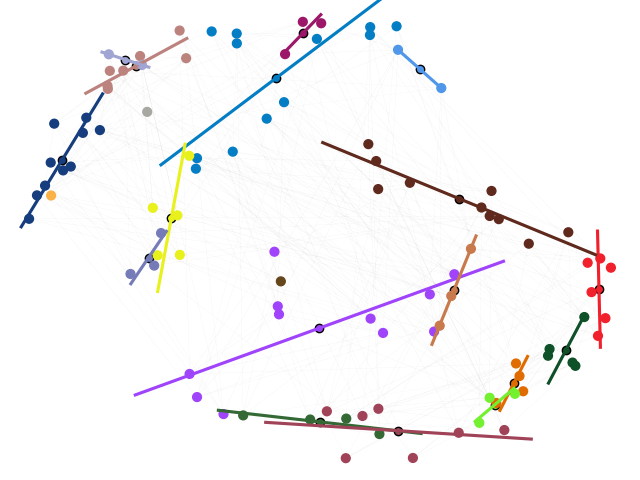
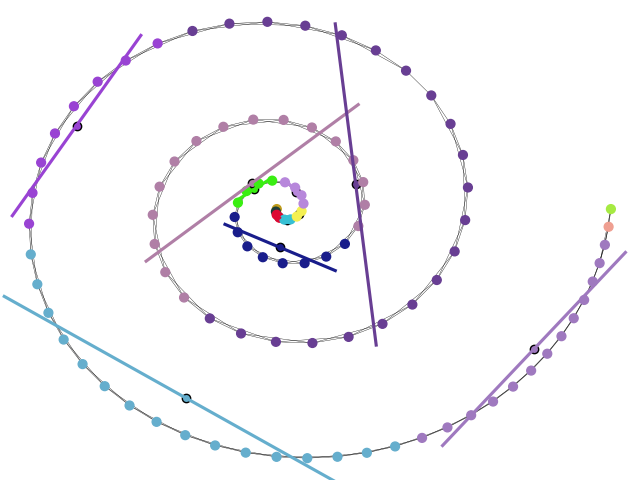
up

diff --git a/demo/draw_utils.py b/demo/draw_utils.py
@@ -1,15 +1,21 @@
 import networkx as nx
 import numpy as np
+import random
 import matplotlib.cm
 import matplotlib.pyplot as plt
+from sklearn.neighbors import NearestNeighbors
 cmap = matplotlib.cm.get_cmap('rainbow')
 
 
-def draw_spiral_clusters(C, G):
+def draw_spiral_clusters(C, k):
     X = sum([Ci.X for Ci in C], [])
-    colors = [np.random.rand(3, ) for i in range(len(C))]
+    colors = [np.array(random.sample(range(0, 256), 3)) / 256 for i in range(len(C))]
     colors_list = sum([[colors[i]] * len(C[i]) for i in range(len(C))], [])
-    nx.draw(G, pos=X, node_size=40, node_color=colors_list, width=0.01)
+    width = 0.01 if len(X) > 200 else 0.25
+    knn = NearestNeighbors(n_neighbors=k + 1, metric='euclidean').fit(X)
+    E = knn.kneighbors_graph(X).astype(np.int)
+    G = nx.from_scipy_sparse_matrix(E, create_using=nx.MultiGraph)
+    nx.draw(G, pos=X, node_size=40, node_color=colors_list, width=width)
 
     for i, Ci in enumerate(C):
         if len(Ci) == 1:  # Skip singleton clusters
@@ -19,18 +25,15 @@ def draw_spiral_clusters(C, G):
         samples = np.array(Ci.X).T
         p = np.mean(samples, axis=1, keepdims=True)
 
-        length_x = max(np.abs(np.max(samples[0, :]) - np.min(samples[0, :])), 0.1)
-        length_y = max(np.abs(np.max(samples[1, :]) - np.min(samples[1, :])), 0.1)
-        length = max(length_x, length_y)
-        pts = np.linspace(-length * 3 / 4, length * 3 / 4, num=2)
-        xs = pts * flat[0]
-        ys = pts * flat[1]
-
+        length_x = max(np.abs(np.max(Ci.X, axis=0)[0] - np.min(Ci.X, axis=0)[0]), 0.1)
+        length_y = max(np.abs(np.max(Ci.X, axis=0)[1] - np.min(Ci.X, axis=0)[1]), 0.1)
+        pts = [-100000, 100000]
+        xs = np.clip(pts * flat[0], -length_x / 2, length_x / 2)
+        ys = np.clip(pts * flat[1], -length_y / 2, length_y / 2)
         plt.autoscale(False)
 
         plt.plot(xs + p[0], ys + p[1], 'k-', lw=2.25, color=colors[i])
         plt.scatter(p[0], p[1], color=colors[i], edgecolors='black')
-    plt.savefig('./outfig.png')
     plt.show()
 
 
@@ -41,5 +44,4 @@ def draw_3d_clusters(C):
     colors = [np.random.rand(3, ) for i in range(len(C))]
     colors_list = sum([[c] * len(C[i]) for i, c in enumerate(colors)], [])
     ax.scatter(X[:, 0], X[:, 1], X[:, 2], c=colors_list)
-    plt.savefig('./outfig.png')
     plt.show()

diff --git a/demo/spiral_acdt.py b/demo/spiral_acdt.py
@@ -5,8 +5,9 @@ import networkx as nx
 import sklearn.datasets as datasets
 import karcher_mean
 import scipy.linalg
+import pickle
 import os
-from datasets_util import make_spiral, make_spiral2, make_spiral3
+from datasets_util import make_spiral, make_2_spiral
 from draw_utils import draw_spiral_clusters, draw_3d_clusters
 from multiprocessing import Pool
 from karcher_mean import karcher_mean as km
@@ -56,9 +57,8 @@ def argmin_dissimilarity(C, knn):
 
     min_idx = np.argmin(pool.starmap(d_hat, pairs))  # TODO
     # min_idx = np.argmin([d_hat(Ci, Cj) for Ci, Cj in pairs])
-    Ci_min = pairs[min_idx][0]
-    Cj_min = pairs[min_idx][1]
-    return Ci_min, Cj_min
+
+    return pairs[min_idx]
 
 
 def d_hat(Ci, Cj):
@@ -98,20 +98,20 @@ def d_geodesic(x, y):
 pool = Pool(processes=PROCESS)
 
 # Params
-k = 5
-l = 20
-d = 2
+k = 15
+l = 60
+d = 1
 
 # dataset points
-n = 500
-# X = make_spiral2(n=n, normalize=True)
-# X = make_spiral3(n=n, normalize=True)
+n = 5000
+# X = make_spiral(n=n, normalize=True)
+# X = make_2_spiral(n=n, normalize=True)
 X, _ = datasets.make_swiss_roll(n)
 
 knn = NearestNeighbors(n_neighbors=k + 1, metric='euclidean').fit(X)
 k_indices = knn.kneighbors(X, return_distance=False)[:, 1:]  # Compute k-nearest neighbors indices
-E = knn.kneighbors_graph(X).astype(np.int)
-G = nx.from_scipy_sparse_matrix(E)
+E = knn.kneighbors_graph(X).astype(np.int) # These are not used
+G = nx.from_scipy_sparse_matrix(E.copy(), create_using=nx.MultiGraph)
 
 C = []
 map_cluster = []  # Maps sample idx to cluster containing it
@@ -157,7 +157,18 @@ for Ci in C:
 
 print(time.time() - total)
 
+# Save the data for further visualization
+data = {
+    'C': C,
+    'knn': knn
+}
+
+PATH = './saved/'
+os.makedirs(PATH, exist_ok=True)
+with open(os.path.join(PATH, 'ckpt.pickle'), 'wb') as f:
+    pickle.dump(data, f, protocol=pickle.HIGHEST_PROTOCOL)
+
 if X.shape[1] == 2:
-    draw_spiral_clusters(C, G)
+    draw_spiral_clusters(C, k)
 if X.shape[1] == 3:
     draw_3d_clusters(C)

diff --git a/demo/datasets_util.py b/demo/datasets_util.py
@@ -1,7 +1,8 @@
+import math
 import numpy as np
 from numpy import pi
 
-def make_spiral(n=100, normalize=False):
+def make_spiral_old(n=100, normalize=False):
     ls = np.linspace(0, 4 * np.pi, n)
     v = 1
     w = 1
@@ -15,16 +16,16 @@ def make_spiral(n=100, normalize=False):
     return out
 
 
-def make_spiral3(n=100, normalize=False):
+def make_spiral(n=100, normalize=False):
     theta = np.radians(np.linspace(90, 360 * 4, n))
-    theta *= np.geomspace(1, 2, n)[::-1]
+    theta *= np.geomspace(1, 2.3, n)[::-1]
     r = theta ** 2
     x = r * np.cos(theta)
     y = r * np.sin(theta)
     return np.concatenate([x[..., None], y[..., None]], axis=1)
 
 
-def make_spiral2(n=100, normalize=False):
+def make_2_spiral(n=100, normalize=False):
     n = n // 2
     theta = np.sqrt(np.random.rand(n))*2*pi
 
